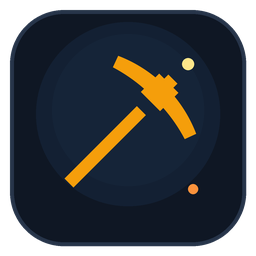
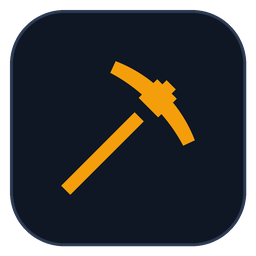
Add reproducible brand asset generator

diff --git a/scripts/generate_brand.py b/scripts/generate_brand.py
@@ -1,0 +1,250 @@
+"""Generate the NMAxe brand icon and logo assets."""
+
+from __future__ import annotations
+
+from io import BytesIO
+from pathlib import Path
+from typing import Final
+
+import cairosvg
+from PIL import Image, ImageDraw, ImageFont
+
+ROOT: Final = Path(__file__).resolve().parents[1]
+OUTPUT_DIR: Final = ROOT / "custom_components" / "nmaxe" / "brand"
+
+SCALE: Final = 4
+
+ICON_SIZE: Final = 256
+ICON_PADDING: Final = 10
+ICON_RADIUS: Final = 54
+ICON_BORDER_WIDTH: Final = 3
+ICON_BG: Final = "#0f1724"
+ICON_BORDER: Final = "#2a3850"
+ICON_ACCENT: Final = "#f59e0b"
+ICON_GLYPH_RATIO: Final = 0.61
+ICON_GLYPH_OFFSET: Final[tuple[float, float]] = (0.0, 0.0)
+
+LOGO_SIZE: Final = (512, 256)
+LOGO_ICON_SIZE: Final = 184
+LOGO_ICON_X: Final = 28
+LOGO_TEXT_X: Final = 232
+LOGO_RIGHT_PADDING: Final = 28
+LOGO_TITLE: Final = "NMAxe"
+LOGO_SUBTITLE: Final = "Home Assistant"
+LOGO_TITLE_SIZE: Final = 64
+LOGO_TITLE_MIN_SIZE: Final = 40
+LOGO_SUBTITLE_SIZE: Final = 22
+LOGO_SUBTITLE_MIN_SIZE: Final = 14
+LOGO_TEXT_GAP: Final = 7
+LOGO_TITLE_COLOR_LIGHT: Final = "#0f1724"
+LOGO_SUBTITLE_COLOR_LIGHT: Final = "#475569"
+LOGO_TITLE_COLOR_DARK: Final = "#f2f4f8"
+LOGO_SUBTITLE_COLOR_DARK: Final = "#94a3b8"
+
+FONT_BOLD_CANDIDATES: Final = (
+    Path("/usr/share/fonts/truetype/lato/Lato-Bold.ttf"),
+    Path("/usr/share/fonts/truetype/dejavu/DejaVuSans-Bold.ttf"),
+)
+FONT_MEDIUM_CANDIDATES: Final = (
+    Path("/usr/share/fonts/truetype/lato/Lato-Medium.ttf"),
+    Path("/usr/share/fonts/truetype/dejavu/DejaVuSans.ttf"),
+)
+
+PICKAXE_PATH: Final = (
+    "M14.79,10.62L3.5,21.9L2.1,20.5L13.38,9.21L14.79,10.62"
+    "M19.27,7.73L19.86,7.14L19.07,6.35L19.71,5.71L18.29,4.29"
+    "L17.65,4.93L16.86,4.14L16.27,4.73C14.53,3.31 12.57,2.17"
+    " 10.47,1.37L9.64,3.16C11.39,4.08 13,5.19 14.5,6.5L14,7"
+    "L17,10L17.5,9.5C18.81,11 19.92,12.61 20.84,14.36L22.63,13.53"
+    "C21.83,11.43 20.69,9.47 19.27,7.73Z"
+)
+
+
+def _font_path(candidates: tuple[Path, ...]) -> Path:
+    for candidate in candidates:
+        if candidate.exists():
+            return candidate
+    msg = f"No usable font found in {candidates}"
+    raise FileNotFoundError(msg)
+
+
+def _font(size: int, *, bold: bool) -> ImageFont.FreeTypeFont:
+    candidates = FONT_BOLD_CANDIDATES if bold else FONT_MEDIUM_CANDIDATES
+    return ImageFont.truetype(str(_font_path(candidates)), size)
+
+
+def _fit_font(
+    text: str,
+    max_width: int,
+    preferred_size: int,
+    minimum_size: int,
+    *,
+    bold: bool,
+) -> ImageFont.FreeTypeFont:
+    for size in range(preferred_size, minimum_size - 1, -1):
+        font = _font(size, bold=bold)
+        if font.getlength(text) <= max_width:
+            return font
+    return _font(minimum_size, bold=bold)
+
+
+def _pickaxe(size: int) -> Image.Image:
+    svg = (
+        '<svg xmlns="http://www.w3.org/2000/svg" viewBox="0 0 24 24">'
+        f'<path fill="{ICON_ACCENT}" d="{PICKAXE_PATH}"/></svg>'
+    )
+    png = cairosvg.svg2png(
+        bytestring=svg.encode(),
+        output_width=size,
+        output_height=size,
+    )
+    glyph = Image.open(BytesIO(png)).convert("RGBA")
+    alpha_box = glyph.getchannel("A").getbbox()
+    return glyph.crop(alpha_box) if alpha_box else glyph
+
+
+def _render_icon(size: int) -> Image.Image:
+    padding = ICON_PADDING * SCALE
+    border_width = ICON_BORDER_WIDTH * SCALE
+    image = Image.new("RGBA", (size, size), (0, 0, 0, 0))
+    draw = ImageDraw.Draw(image)
+    draw.rounded_rectangle(
+        (padding, padding, size - padding, size - padding),
+        radius=ICON_RADIUS * SCALE,
+        fill=ICON_BG,
+        outline=ICON_BORDER,
+        width=border_width,
+    )
+
+    glyph = _pickaxe(round(size * ICON_GLYPH_RATIO))
+    offset_x = round(ICON_GLYPH_OFFSET[0] * SCALE)
+    offset_y = round(ICON_GLYPH_OFFSET[1] * SCALE)
+    image.alpha_composite(
+        glyph,
+        (
+            (size - glyph.width) // 2 + offset_x,
+            (size - glyph.height) // 2 + offset_y,
+        ),
+    )
+    return image
+
+
+def _resize(image: Image.Image, size: tuple[int, int]) -> Image.Image:
+    return image.convert("RGBa").resize(size, Image.Resampling.LANCZOS).convert("RGBA")
+
+
+def _draw_icon(size: int) -> Image.Image:
+    return _resize(_render_icon(size * SCALE), (size, size))
+
+
+def _draw_logo(width: int, height: int, *, dark: bool) -> Image.Image:
+    scale = SCALE
+    canvas = Image.new("RGBA", (width * scale, height * scale), (0, 0, 0, 0))
+    icon = _render_icon(LOGO_ICON_SIZE * scale)
+    canvas.alpha_composite(
+        icon,
+        (
+            LOGO_ICON_X * scale,
+            ((height - LOGO_ICON_SIZE) // 2) * scale,
+        ),
+    )
+
+    draw = ImageDraw.Draw(canvas)
+    available_width = (width - LOGO_TEXT_X - LOGO_RIGHT_PADDING) * scale
+    title_font = _fit_font(
+        LOGO_TITLE,
+        available_width,
+        LOGO_TITLE_SIZE * scale,
+        LOGO_TITLE_MIN_SIZE * scale,
+        bold=True,
+    )
+    subtitle_font = _fit_font(
+        LOGO_SUBTITLE,
+        available_width,
+        LOGO_SUBTITLE_SIZE * scale,
+        LOGO_SUBTITLE_MIN_SIZE * scale,
+        bold=False,
+    )
+    title_color = LOGO_TITLE_COLOR_DARK if dark else LOGO_TITLE_COLOR_LIGHT
+    subtitle_color = LOGO_SUBTITLE_COLOR_DARK if dark else LOGO_SUBTITLE_COLOR_LIGHT
+
+    title_box = draw.textbbox((0, 0), LOGO_TITLE, font=title_font)
+    subtitle_box = draw.textbbox((0, 0), LOGO_SUBTITLE, font=subtitle_font)
+    title_height = title_box[3] - title_box[1]
+    subtitle_height = subtitle_box[3] - subtitle_box[1]
+    gap = LOGO_TEXT_GAP * scale
+    block_height = title_height + gap + subtitle_height
+    top = (height * scale - block_height) // 2
+    text_x = LOGO_TEXT_X * scale
+
+    draw.text(
+        (text_x, top - title_box[1]),
+        LOGO_TITLE,
+        font=title_font,
+        fill=title_color,
+    )
+    draw.text(
+        (text_x, top + title_height + gap - subtitle_box[1]),
+        LOGO_SUBTITLE,
+        font=subtitle_font,
+        fill=subtitle_color,
+    )
+
+    return _resize(canvas, (width, height))
+
+
+def main() -> None:
+    """Write all brand assets and print the final layout measurements."""
+    OUTPUT_DIR.mkdir(parents=True, exist_ok=True)
+
+    _draw_icon(ICON_SIZE).save(OUTPUT_DIR / "icon.png", optimize=True)
+    _draw_icon(ICON_SIZE * 2).save(OUTPUT_DIR / "icon@2x.png", optimize=True)
+    _draw_logo(*LOGO_SIZE, dark=False).save(
+        OUTPUT_DIR / "logo.png",
+        optimize=True,
+    )
+    _draw_logo(LOGO_SIZE[0] * 2, LOGO_SIZE[1] * 2, dark=False).save(
+        OUTPUT_DIR / "logo@2x.png",
+        optimize=True,
+    )
+    _draw_logo(*LOGO_SIZE, dark=True).save(
+        OUTPUT_DIR / "dark_logo.png",
+        optimize=True,
+    )
+    _draw_logo(LOGO_SIZE[0] * 2, LOGO_SIZE[1] * 2, dark=True).save(
+        OUTPUT_DIR / "dark_logo@2x.png",
+        optimize=True,
+    )
+
+    title_font = _fit_font(
+        LOGO_TITLE,
+        LOGO_SIZE[0] - LOGO_TEXT_X - LOGO_RIGHT_PADDING,
+        LOGO_TITLE_SIZE,
+        LOGO_TITLE_MIN_SIZE,
+        bold=True,
+    )
+    subtitle_font = _fit_font(
+        LOGO_SUBTITLE,
+        LOGO_SIZE[0] - LOGO_TEXT_X - LOGO_RIGHT_PADDING,
+        LOGO_SUBTITLE_SIZE,
+        LOGO_SUBTITLE_MIN_SIZE,
+        bold=False,
+    )
+    print(f"icon: {ICON_SIZE}x{ICON_SIZE}")
+    print(f"logo: {LOGO_SIZE[0]}x{LOGO_SIZE[1]}")
+    print(
+        "title:"
+        f" x={LOGO_TEXT_X}"
+        f" font={title_font.size}"
+        f" width={title_font.getlength(LOGO_TITLE):.1f}"
+    )
+    print(
+        "subtitle:"
+        f" x={LOGO_TEXT_X}"
+        f" font={subtitle_font.size}"
+        f" width={subtitle_font.getlength(LOGO_SUBTITLE):.1f}"
+    )
+
+
+if __name__ == "__main__":
+    main()

diff --git a/scripts/__init__.py b/scripts/__init__.py
@@ -1,0 +1,1 @@
+"""Development scripts for this repository."""

diff --git a/README.md b/README.md
@@ -105,6 +105,15 @@ ruff check .
 ruff format --check .
 ```
 
+To regenerate the brand assets:
+
+```bash
+pip install -r requirements_brand.txt
+python scripts/generate_brand.py
+```
+
+The generator writes light and dark logo variants plus the icon and 2x assets. Edit the constants at the top of `scripts/generate_brand.py` to adjust sizes, padding, text, and colors.
+
 CI runs hassfest, HACS validation, Ruff, pytest, CodeQL, dependency review, and zizmor on every push and pull request.
 
 ## License
